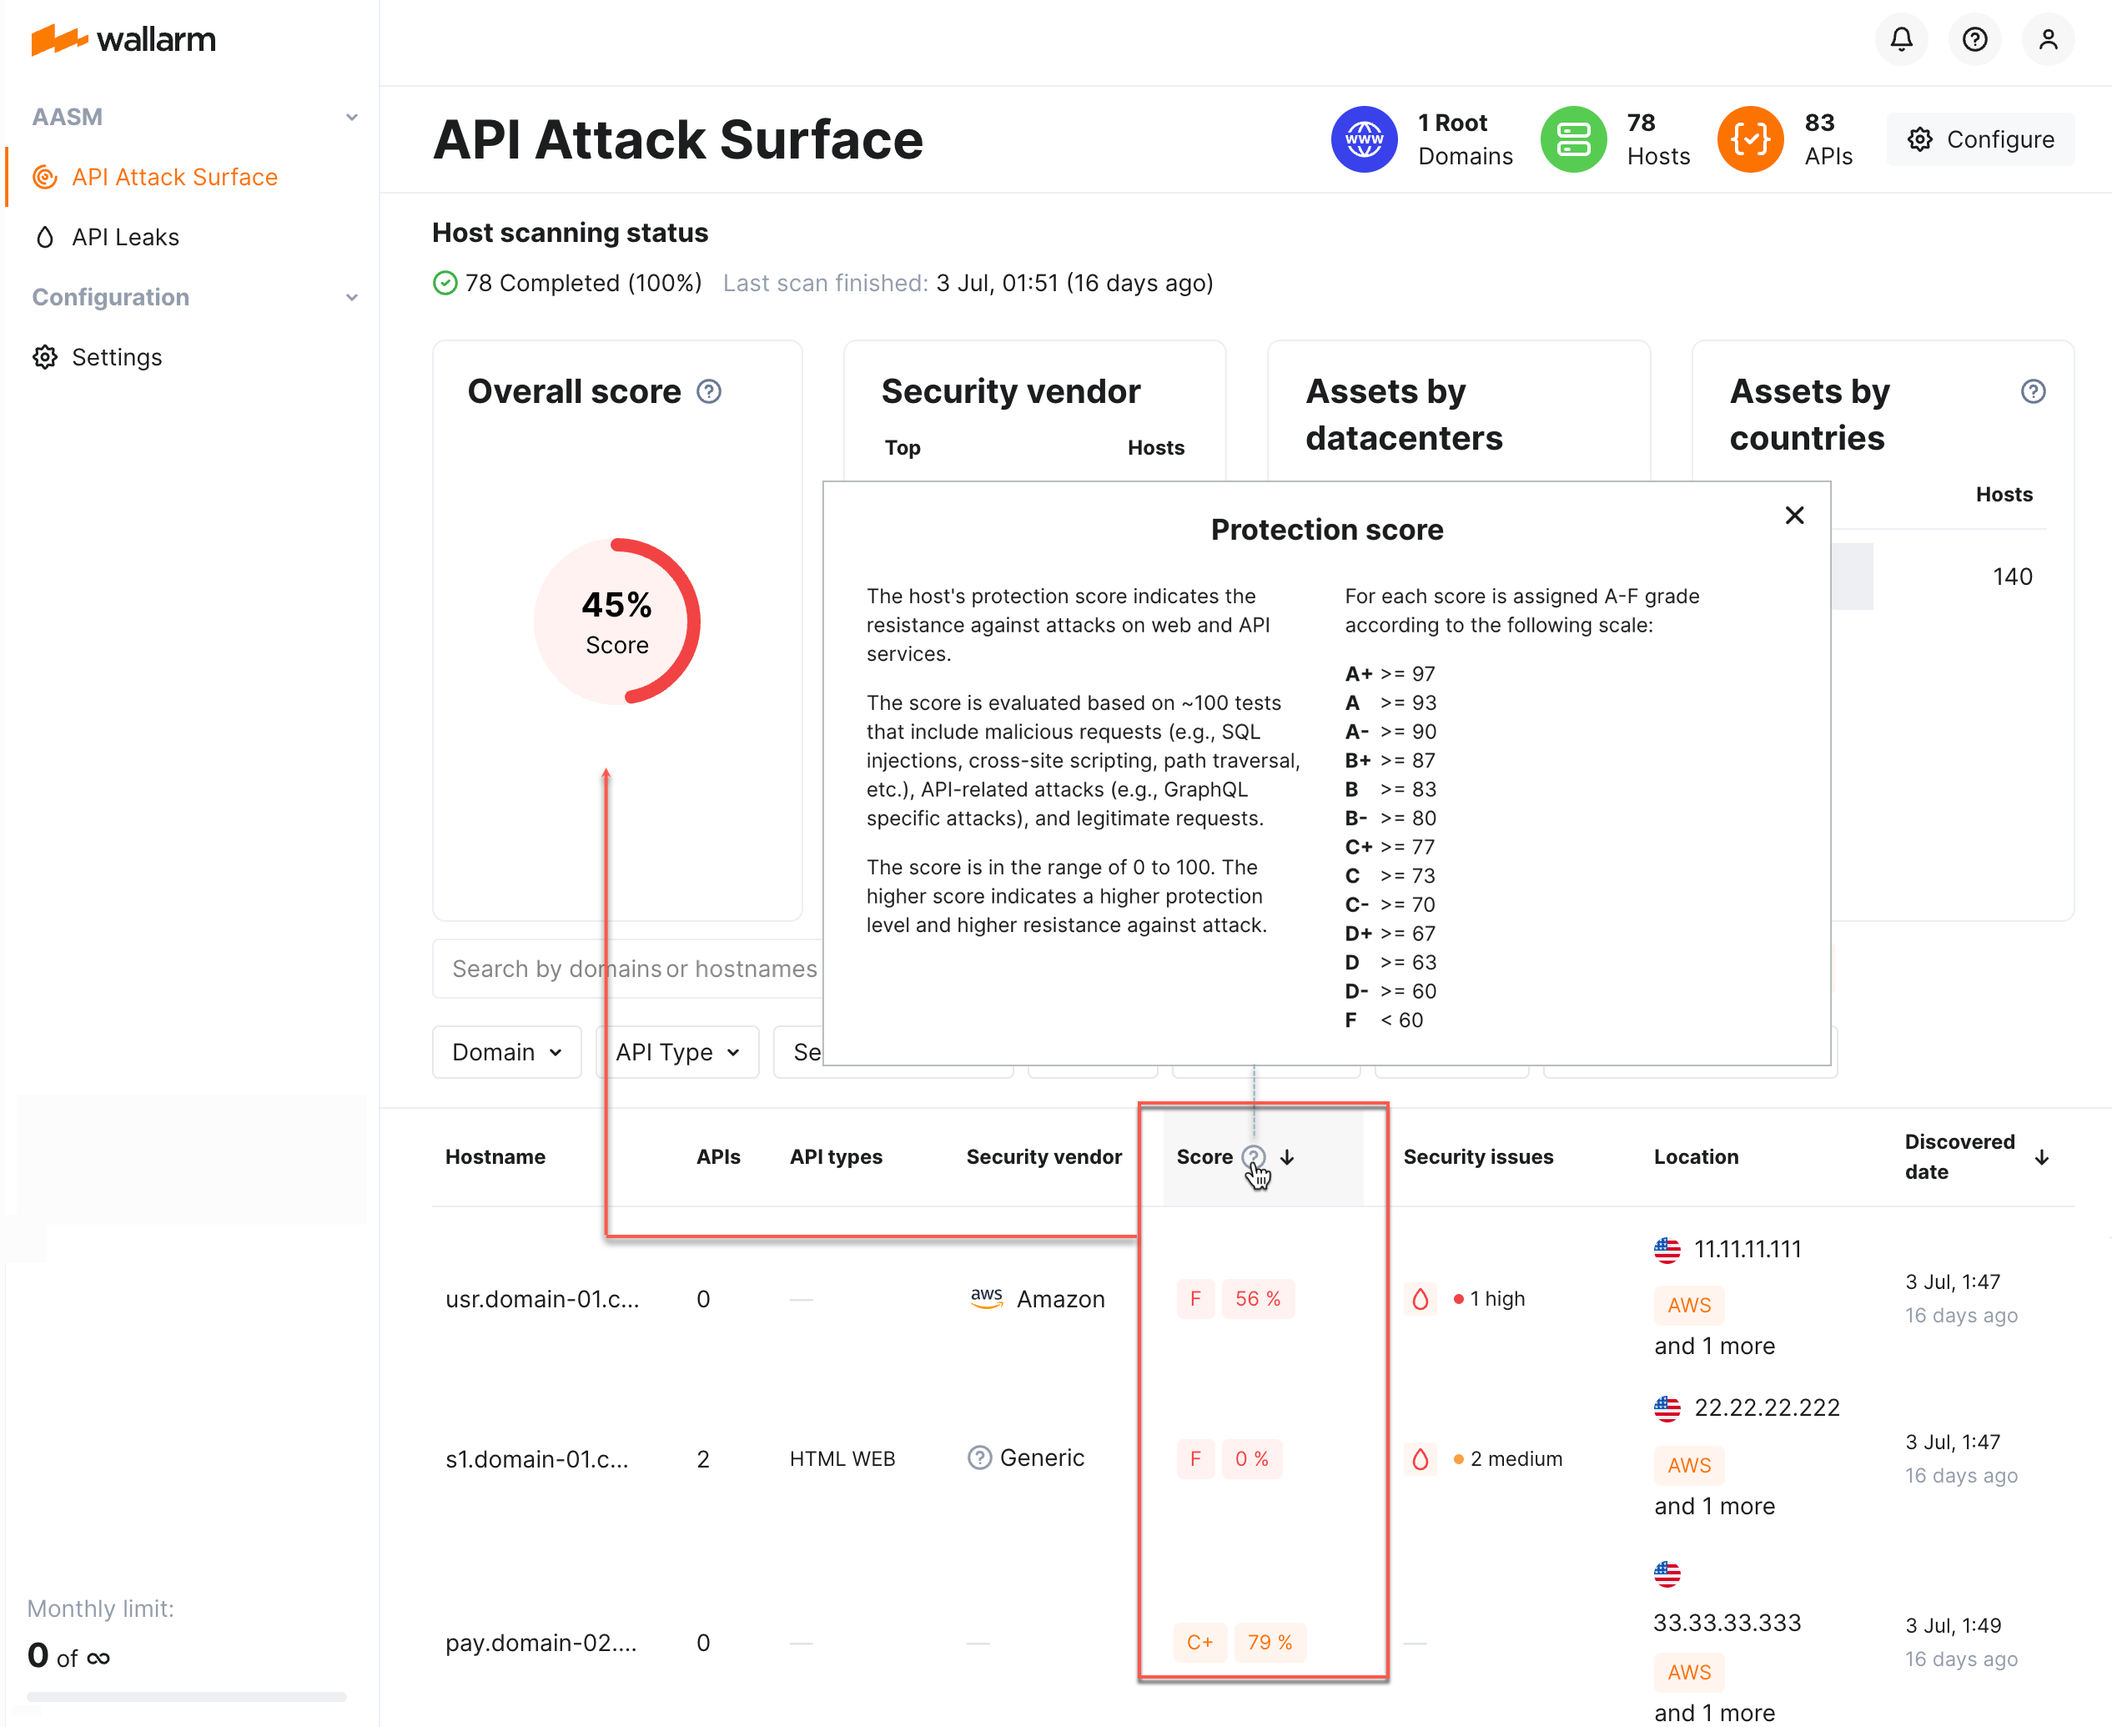
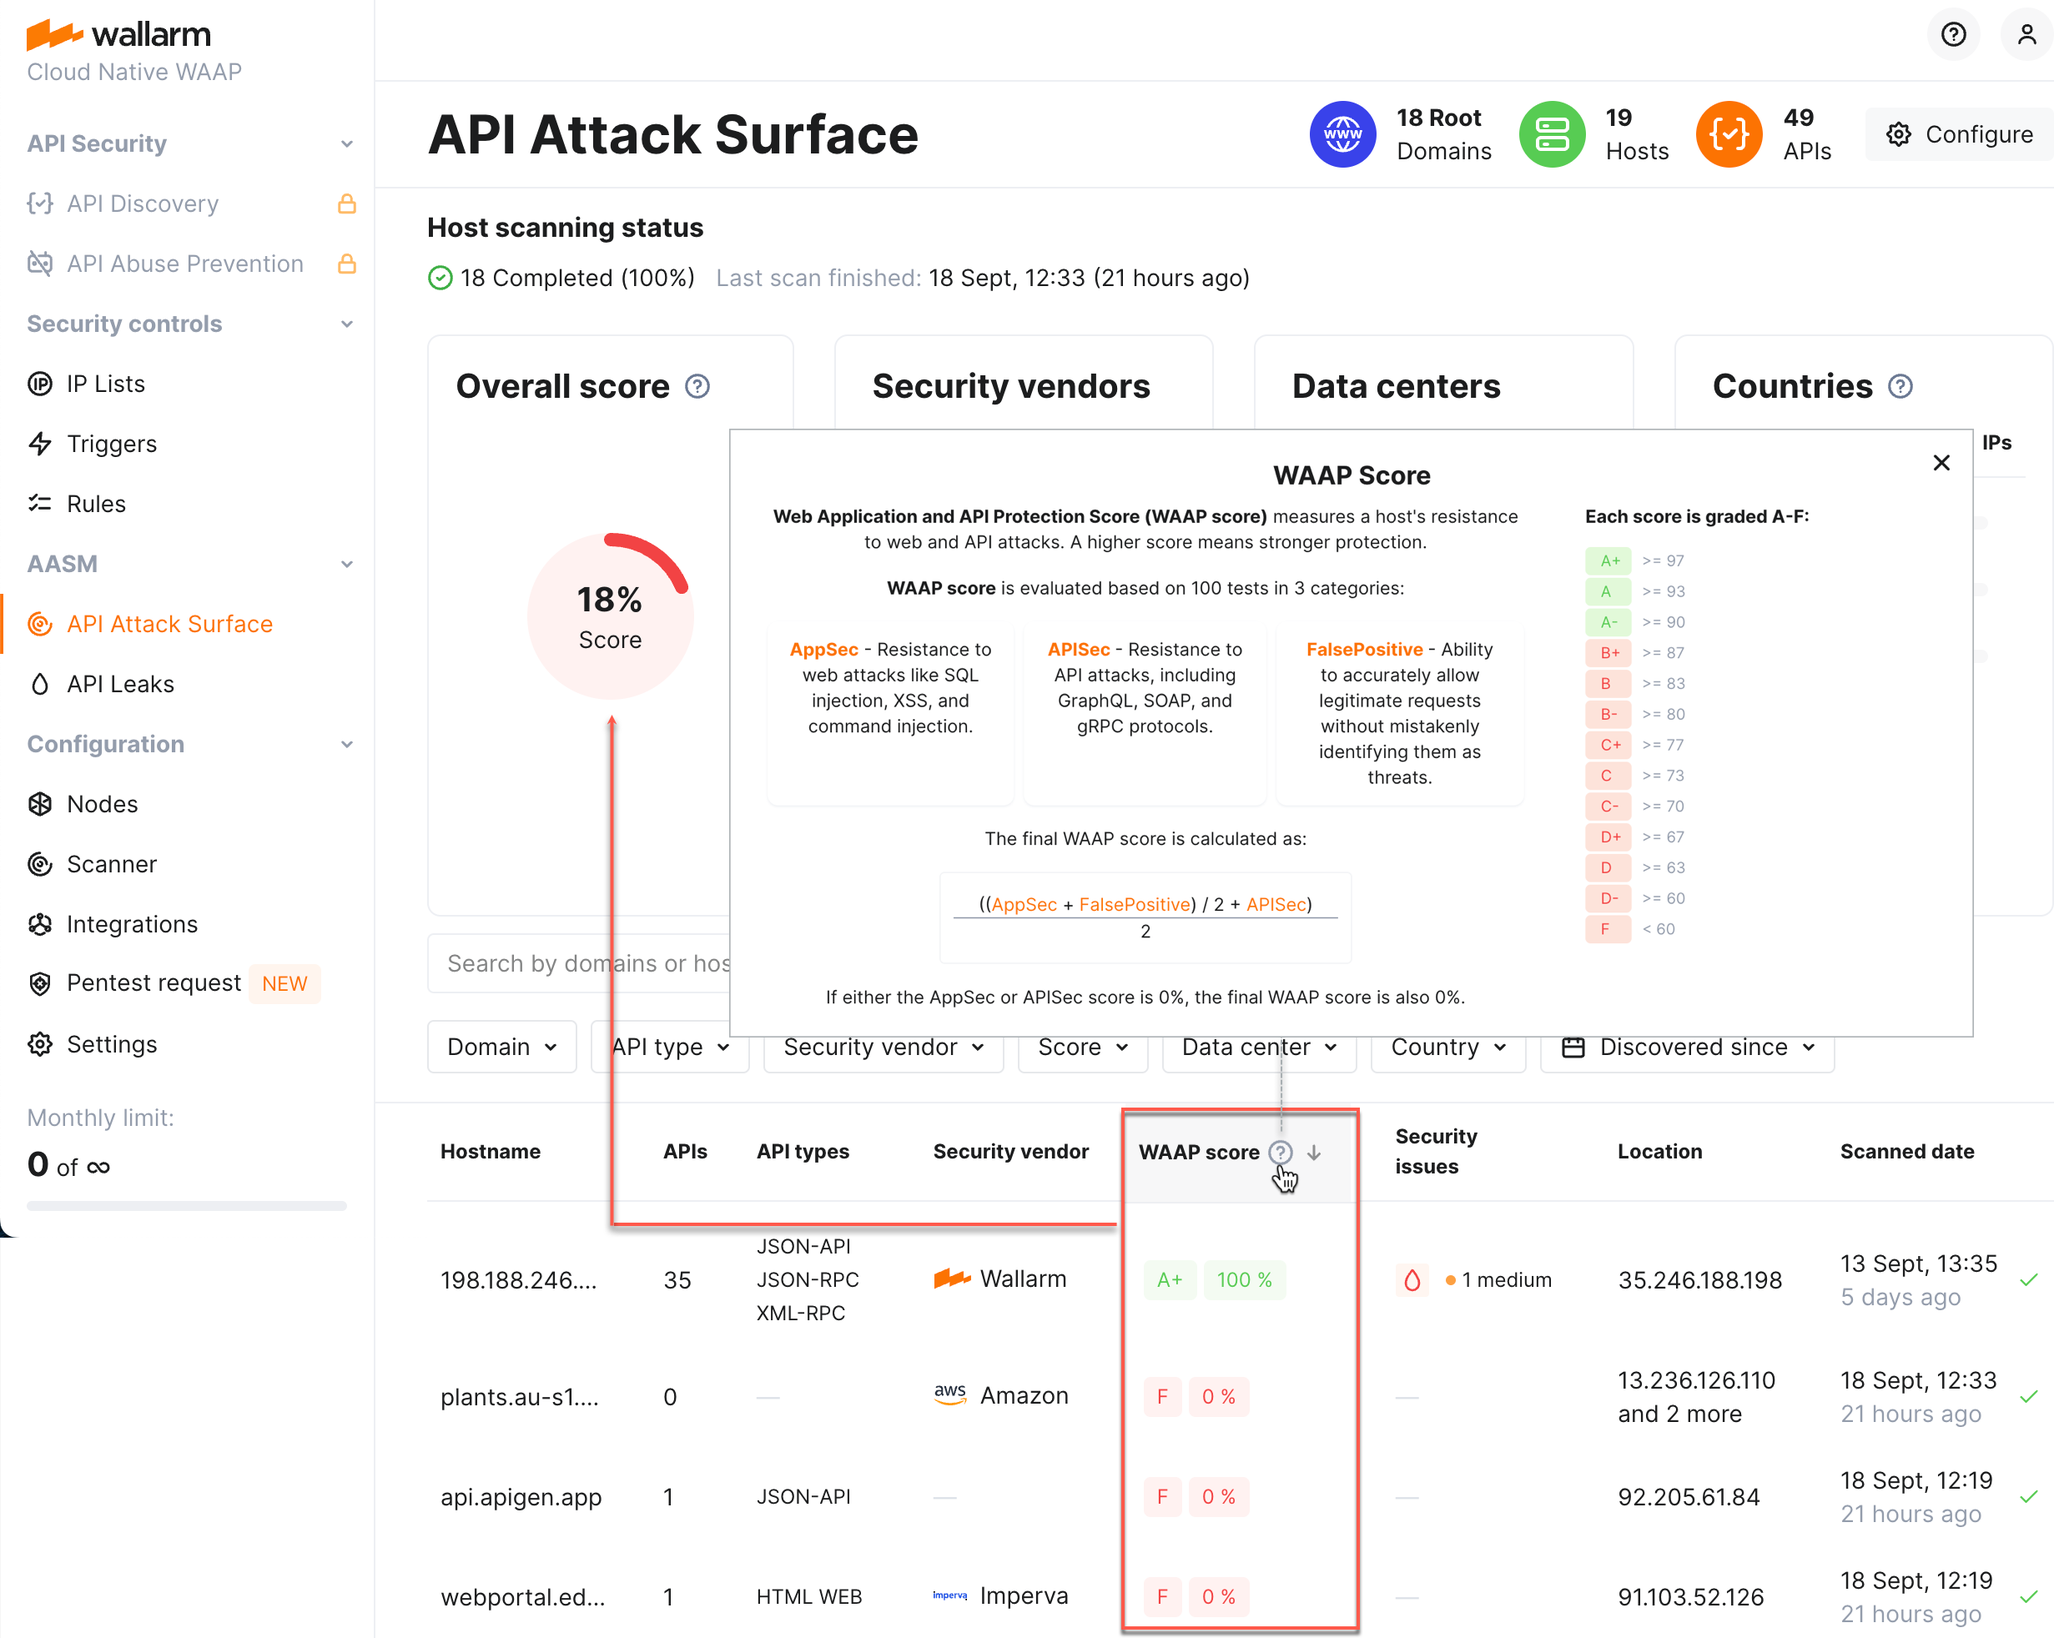
DOCS-2540 Media in AASD article fixed

diff --git a/docs/latest/api-attack-surface/api-surface.md b/docs/latest/api-attack-surface/api-surface.md
@@ -58,7 +58,14 @@ The final WAAP score is calculated as:
 
 For each host, you can download a detailed WAAP score evaluation report in PDF format.
 
-An overall protection score is also calculated as the average score across all hosts, reflecting the protection level of the entire attack surface.
+<div>
+  <script async src="https://js.storylane.io/js/v2/storylane.js"></script>
+  <div class="sl-embed" style="position:relative;padding-bottom:calc(60.65% + 25px);width:100%;height:0;transform:scale(1)">
+    <iframe loading="lazy" class="sl-demo" src="https://wallarm.storylane.io/demo/dqmlj6dzflgq?embed=inline" name="sl-embed" allow="fullscreen" allowfullscreen style="position:absolute;top:0;left:0;width:100%!important;height:100%!important;border:1px solid rgba(63,95,172,0.35);box-shadow: 0px 0px 18px rgba(26, 19, 72, 0.15);border-radius:10px;box-sizing:border-box;"></iframe>
+  </div>
+</div>
+
+An overall score is also calculated as the average WAAP score across all hosts, reflecting the protection level of the entire attack surface.
 
 ![API surface - protection score](../images/api-attack-surface/aasm-api-surface-protection-score.png)
 
